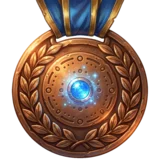
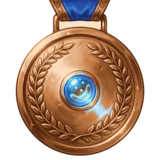
Guilde : médailles de l'initiative au même dessin (or et bronze recolorés depuis l'argent)

diff --git a/essais/dice-arena/chroniques-initiative.js b/essais/dice-arena/chroniques-initiative.js
@@ -139,7 +139,7 @@ function iniMaj() {
     if (!iniMaj.prog || iniMaj.prog !== S.tours) { iniMaj.prog = S.tours; if (!iniFermeA) iniFermeA = Date.now() + 3200; setTimeout(() => { iniMaj(); if (typeof dessine === 'function') dessine(); if (typeof annonceTour === 'function') annonceTour(); }, 3300); }
     // 23/11 : les médailles peintes (or, argent, bronze) à la place des émojis
     const ordre = iniOrdre(), med = ['🥇', '🥈', '🥉', '4'], MED = ['or', 'argent', 'bronze'];
-    ordre.forEach((x, k) => { const r = document.getElementById('ini-r' + x.i); if (r) r.innerHTML = MED[k] ? `<img class="ini-med" src="ui/ini/med-${MED[k]}.webp?v=1" alt="${med[k]}">` : (k + 1); });
+    ordre.forEach((x, k) => { const r = document.getElementById('ini-r' + x.i); if (r) r.innerHTML = MED[k] ? `<img class="ini-med" src="ui/ini/med-${MED[k]}.webp?v=2" alt="${med[k]}">` : (k + 1); });
     st.textContent = 'Tous les dés sont lancés !';
     setTimeout(() => { if (o) o.innerHTML = ordre.map((x, k) => `${med[k] || k + 1} <b>${nomH(S.heros[x.i])}</b>`).join(' › '); }, 1500);
   }
